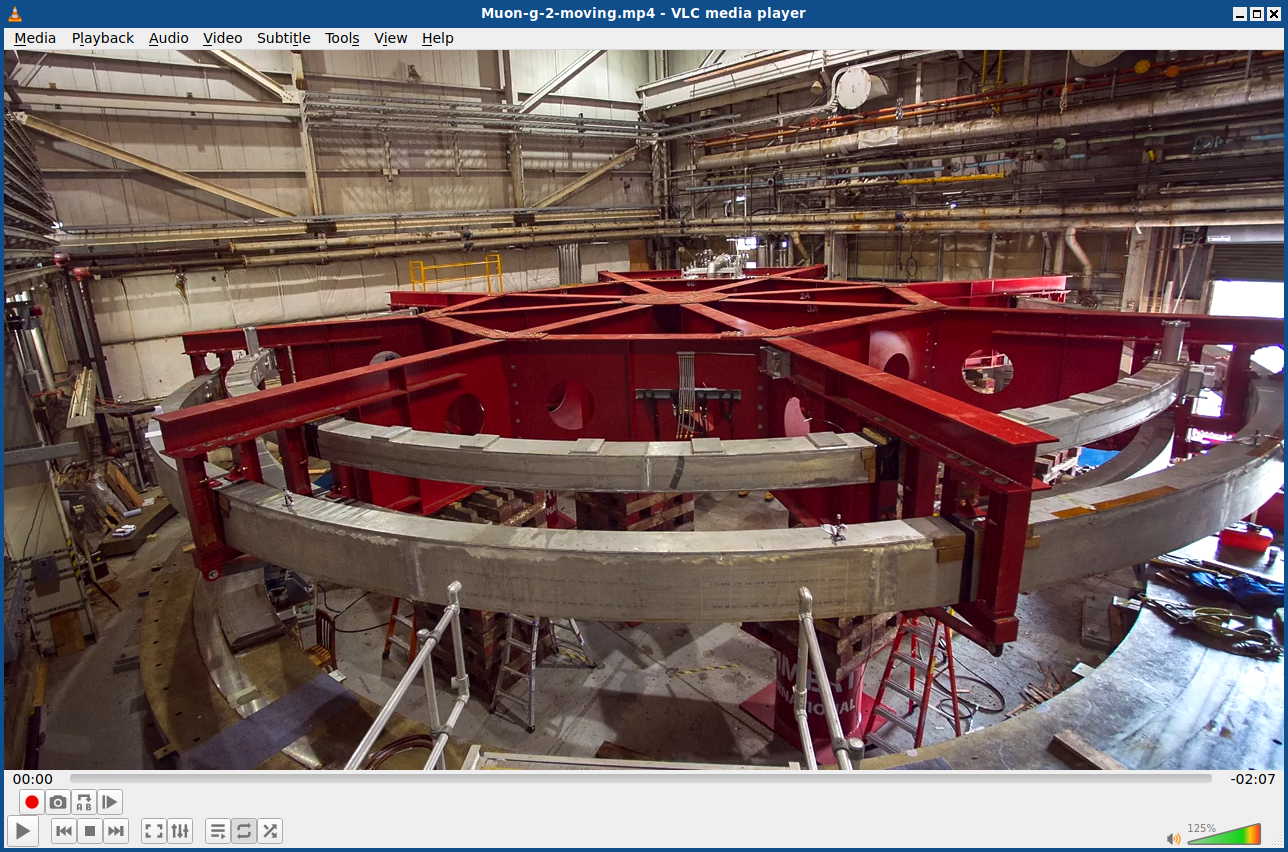
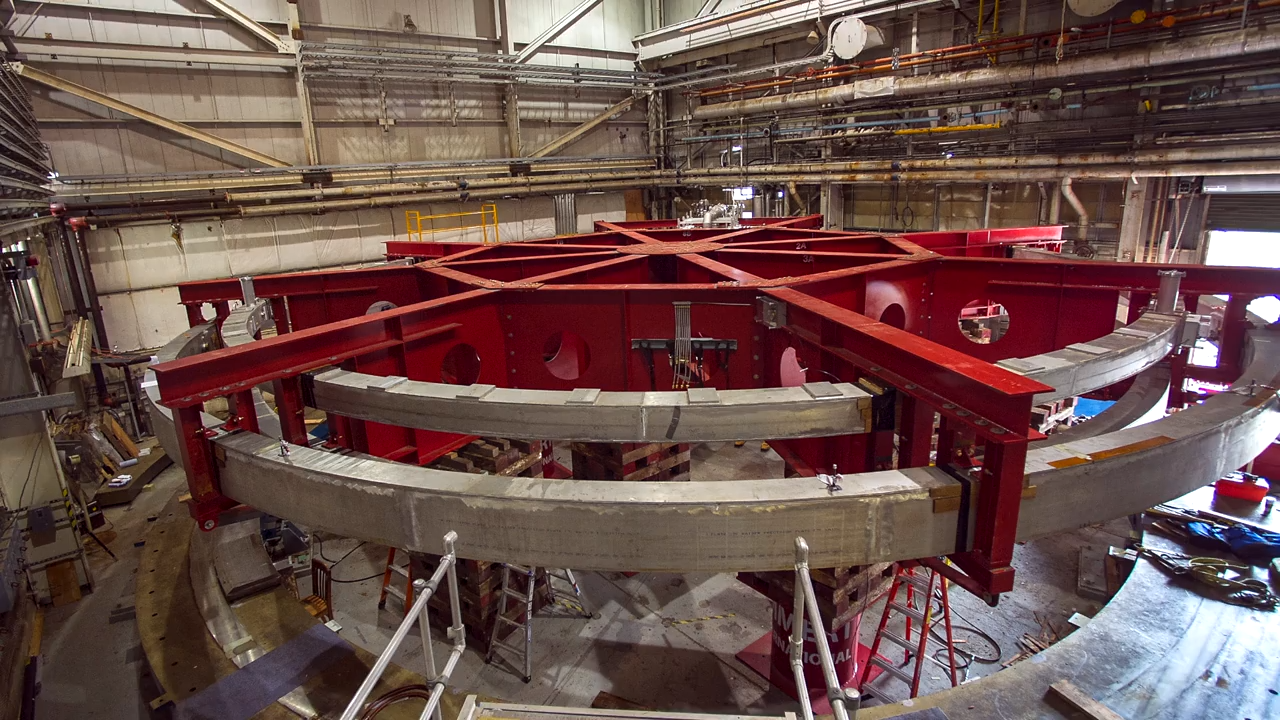
smaller video to allow for citation of source

diff --git a/talk.tex b/talk.tex
@@ -830,7 +830,7 @@
 
 \begin{frame}{\insertsection: Fermilab (FNAL)}
   \begin{center}
-    \movie[width=\textwidth,autostart,loop]{\includegraphics[width=0.9\textwidth]{videos/Muon-g-2-moving.png}}{videos/Muon-g-2-moving.mp4}
+    \movie[width=0.9\textwidth,showcontrols]{\includegraphics[width=0.9\textwidth]{videos/Muon-g-2-moving.png}}{videos/Muon-g-2-moving.mp4}
     \cite{muon-g-2-moving}
   \end{center}
 \end{frame}
